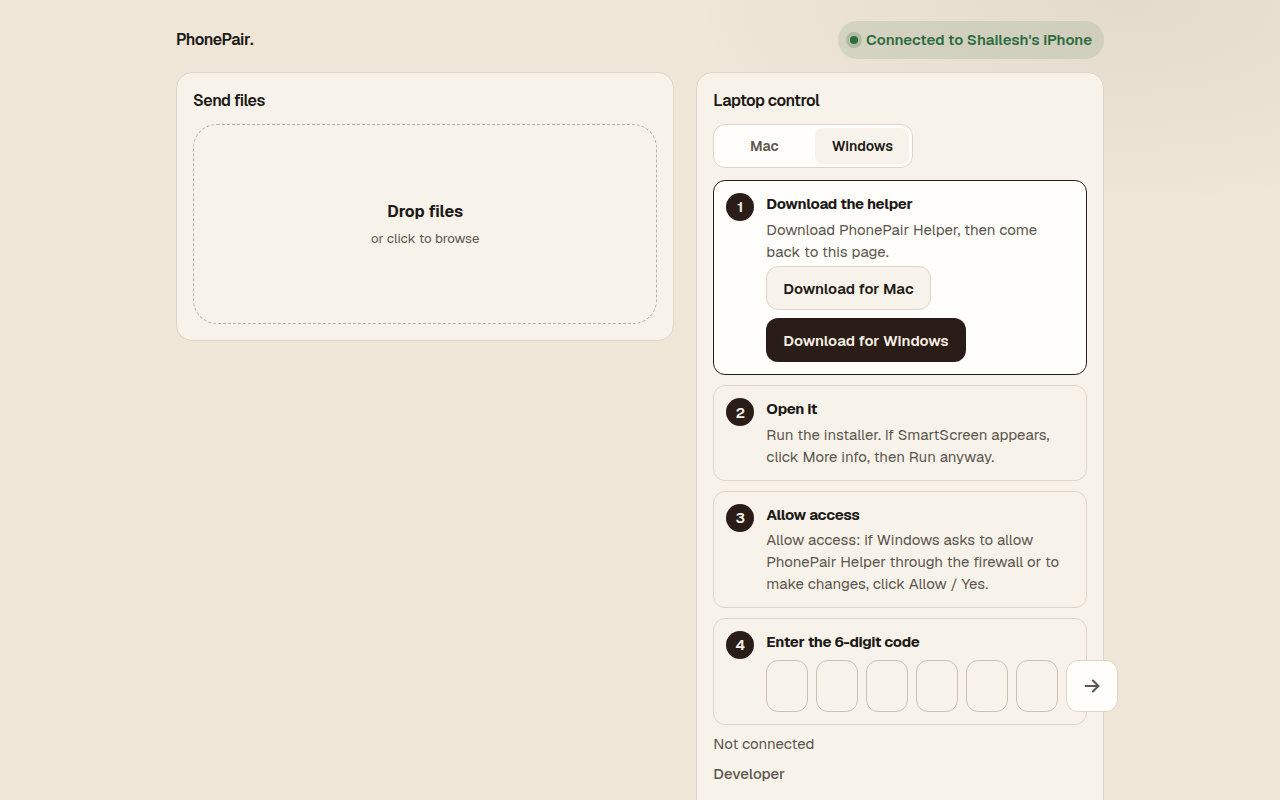
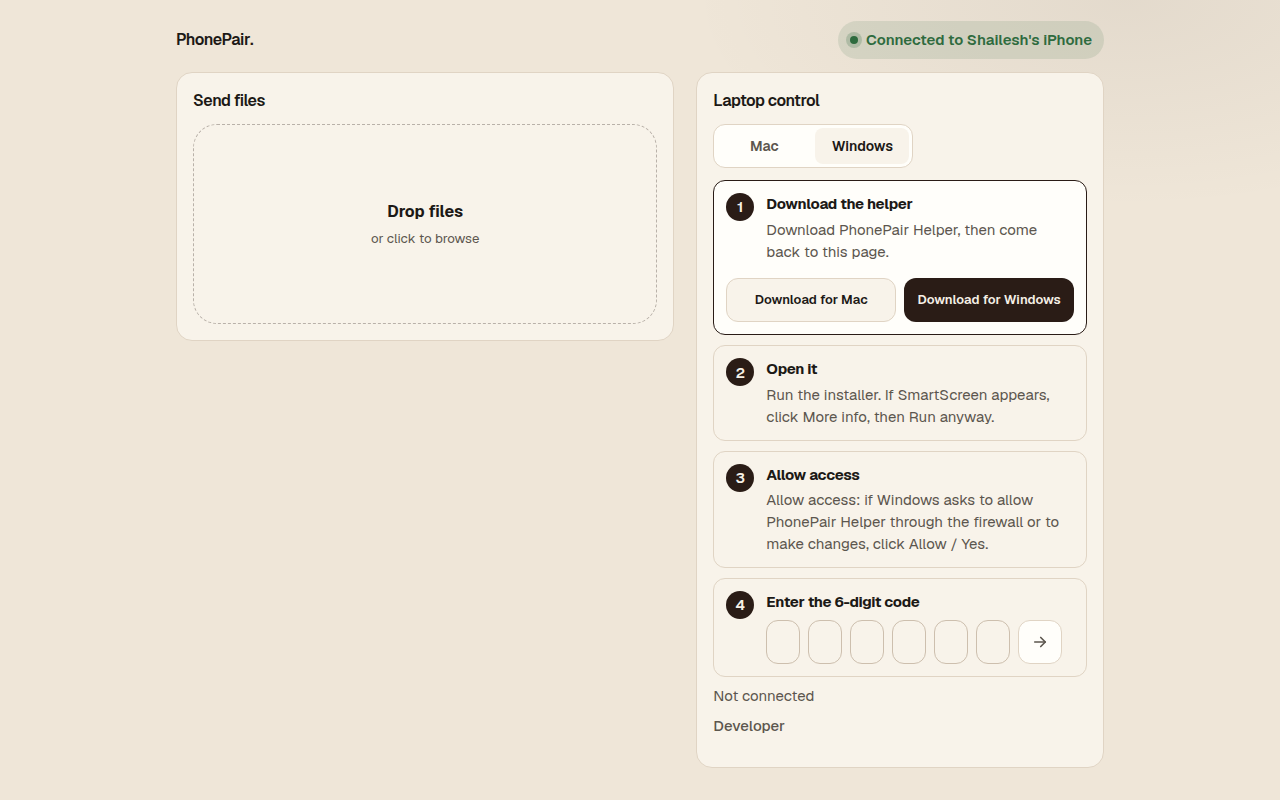
Connect guide: inline download buttons, smaller code boxes

Changed region(s): [[0.5625, 0.3438, 0.8438, 1.0], [0.8438, 0.8125, 0.875, 0.9062]]

diff --git a/design/specs-2026-11-12/espresso-additions.css b/design/specs-2026-11-12/espresso-additions.css
@@ -29,6 +29,7 @@
 }
 .pp-step {
   display: flex;
+  flex-wrap: wrap;
   gap: 12px;
   align-items: flex-start;
   padding: 12px;
@@ -48,6 +49,7 @@
   font-size: 15px;
   flex: none;
 }
+.pp-step > div { flex: 1; min-width: 0; }
 .pp-step b { display: block; font-size: 15px; letter-spacing: -.02em; }
 .pp-step p { margin-top: 4px; }
 .pp-step--active { border-color: var(--accent); background: var(--tile); }
@@ -86,6 +88,27 @@
   background: var(--surface);
   color: var(--text);
 }
+.helper-downloads {
+  display: flex;
+  flex: 1 0 100%;
+  flex-wrap: nowrap;
+  gap: 8px;
+  width: 100%;
+  margin: 0;
+}
+.helper-downloads .pp-os-btn {
+  flex: 1 1 0;
+  width: auto;
+  min-width: 0;
+  min-height: 44px;
+  padding: 8px 4px;
+  font-size: 13px;
+  white-space: nowrap;
+}
+@media (max-width: 340px) {
+  .helper-downloads { flex-wrap: wrap; }
+  .helper-downloads .pp-os-btn { flex: 1 1 100%; }
+}
 .pp-os-btn { min-height: 44px; }
 .pp-os-btn.on,
 [data-os="mac"] [data-testid="download-mac"],
@@ -95,10 +118,10 @@
   border-color: transparent;
 }
 
-.pp-code { display: flex; align-items: center; gap: 8px; margin-top: 8px; }
+.pp-code { display: flex; align-items: center; gap: 8px; margin-top: 8px; width: 100%; }
 .pp-code-go {
-  width: 52px;
-  height: 52px;
+  width: 44px;
+  height: 44px;
   flex: none;
   border-radius: var(--r-md);
   background: var(--accent);
@@ -107,7 +130,7 @@
   place-items: center;
   padding: 0;
 }
-.pp-code-go svg { width: 22px; height: 22px; }
+.pp-code-go svg { width: 18px; height: 18px; }
 .pp-code-go:disabled {
   background: var(--surface-2);
   color: var(--muted);
@@ -115,13 +138,12 @@
   cursor: default;
 }
 .pp-code-input {
-  width: 42px;
-  height: 52px;
-  flex: 1 1 0;
-  max-width: 48px;
+  width: 34px;
+  height: 44px;
+  flex: 0 0 34px;
   text-align: center;
   font-family: var(--mono);
-  font-size: 22px;
+  font-size: 18px;
   font-weight: 600;
   border: 1px solid var(--line-strong);
   border-radius: var(--r-md);

diff --git a/design/specs-2026-11-12/b-connect.html b/design/specs-2026-11-12/b-connect.html
@@ -11,9 +11,6 @@
   .grid .col:first-child{display:none}
   .pp-step{padding:8px 10px}
   .pp-steps{gap:6px}
-  .pp-code{gap:4px}
-  .pp-code-input{height:44px;max-width:34px;font-size:18px;min-width:0}
-  .pp-code-go{width:40px;height:44px}
   .pp-step p{margin-top:2px}
 }
 </style>
@@ -45,11 +42,11 @@
               <div>
                 <b>Download the helper</b>
                 <p class="mut small" data-testid="helper-hint">Download PhonePair Helper, then come back to this page.</p>
-                <p class="helper-downloads">
-                  <a class="btn ghost pp-os-btn" data-testid="download-mac" href="https://github.com/Shailesh200/phonepair/releases/latest">Download for Mac</a>
-                  <a class="btn ghost pp-os-btn" data-testid="download-win" href="https://github.com/Shailesh200/phonepair/releases/latest">Download for Windows</a>
-                </p>
               </div>
+              <p class="helper-downloads">
+                <a class="btn ghost pp-os-btn" data-testid="download-mac" href="https://github.com/Shailesh200/phonepair/releases/latest">Download for Mac</a>
+                <a class="btn ghost pp-os-btn" data-testid="download-win" href="https://github.com/Shailesh200/phonepair/releases/latest">Download for Windows</a>
+              </p>
             </li>
             <li class="pp-step">
               <span class="step-n">2</span>

diff --git a/design/specs-2026-11-12/SPEC.md b/design/specs-2026-11-12/SPEC.md
@@ -35,10 +35,10 @@ One card, `data-testid="remote-panel"`, `data-os="mac"|"windows"`, `data-state` 
 
 `.pp-os-toggle` sits at the top of the guide (Mac / Windows) and auto-selects the detected OS (`data-os`). Steps stay open together, not a wizard.
 
-1. **Download the helper.** `data-testid="download-mac"` and `download-win`. Highlight the selected OS (`.on`).
+1. **Download the helper.** `data-testid="download-mac"` and `download-win` sit on one line in `.helper-downloads` (side by side, `flex-wrap: nowrap`). They wrap only below 340px. Highlight the selected OS (`.on`).
 2. **Open it.** Mac `mac-open-steps`: Open the DMG, drag PhonePair Helper to Applications, then open it. Windows `win-open-steps`: Run the installer. If SmartScreen appears, click More info, then Run anyway.
 3. **Allow access.** Mac: Allow Accessibility: System Settings > Privacy & Security > Accessibility > turn on PhonePair Helper. This lets it move the pointer and type. Windows: Allow access: if Windows asks to allow PhonePair Helper through the firewall or to make changes, click Allow / Yes.
-4. **Enter the 6-digit code.** Six `.pp-code-input` boxes inside `[data-testid="helper-code"]`. `.pp-code-go` sits on the right, same height as the boxes: `--accent` background, `--accent-ink` arrow, `aria-label="Connect"`. Disabled and muted until 6 digits are entered.
+4. **Enter the 6-digit code.** Six `.pp-code-input` boxes (34×44px, gap 8px) inside `[data-testid="helper-code"]`. `.pp-code-go` is 44×44 on the right, same height as the boxes: `--accent` background, `--accent-ink` arrow, `aria-label="Connect"`. Disabled and muted until 6 digits are entered. The row stays inside the card at 1280 and 390.
 
 No “run from source” line. `.pp-dev-link` (**Developer**) reveals `data-testid="helper-dev-note"`: `cd helper && npm start`.
 
